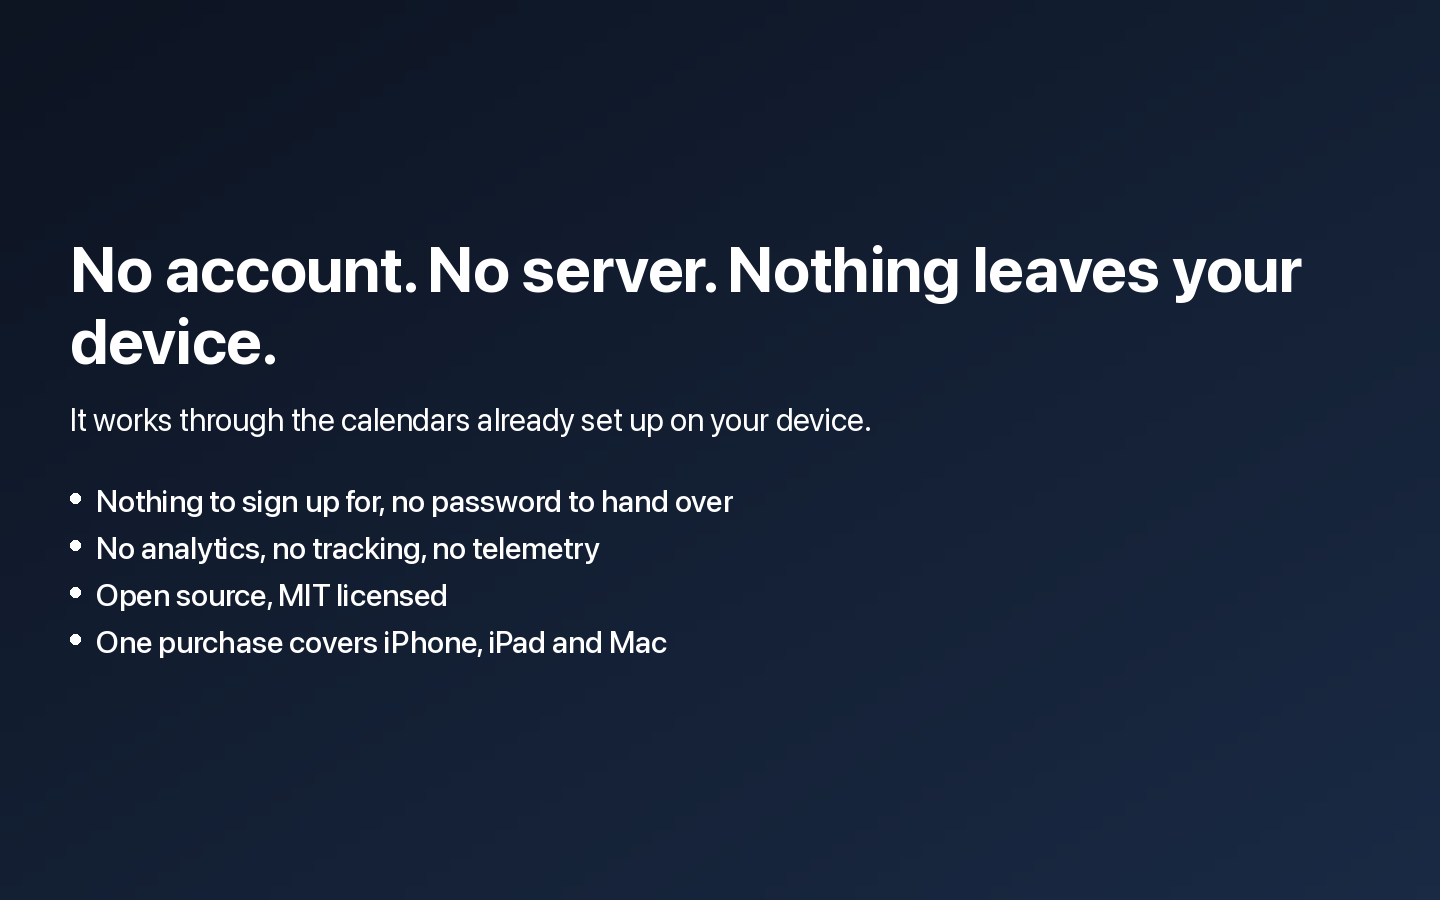
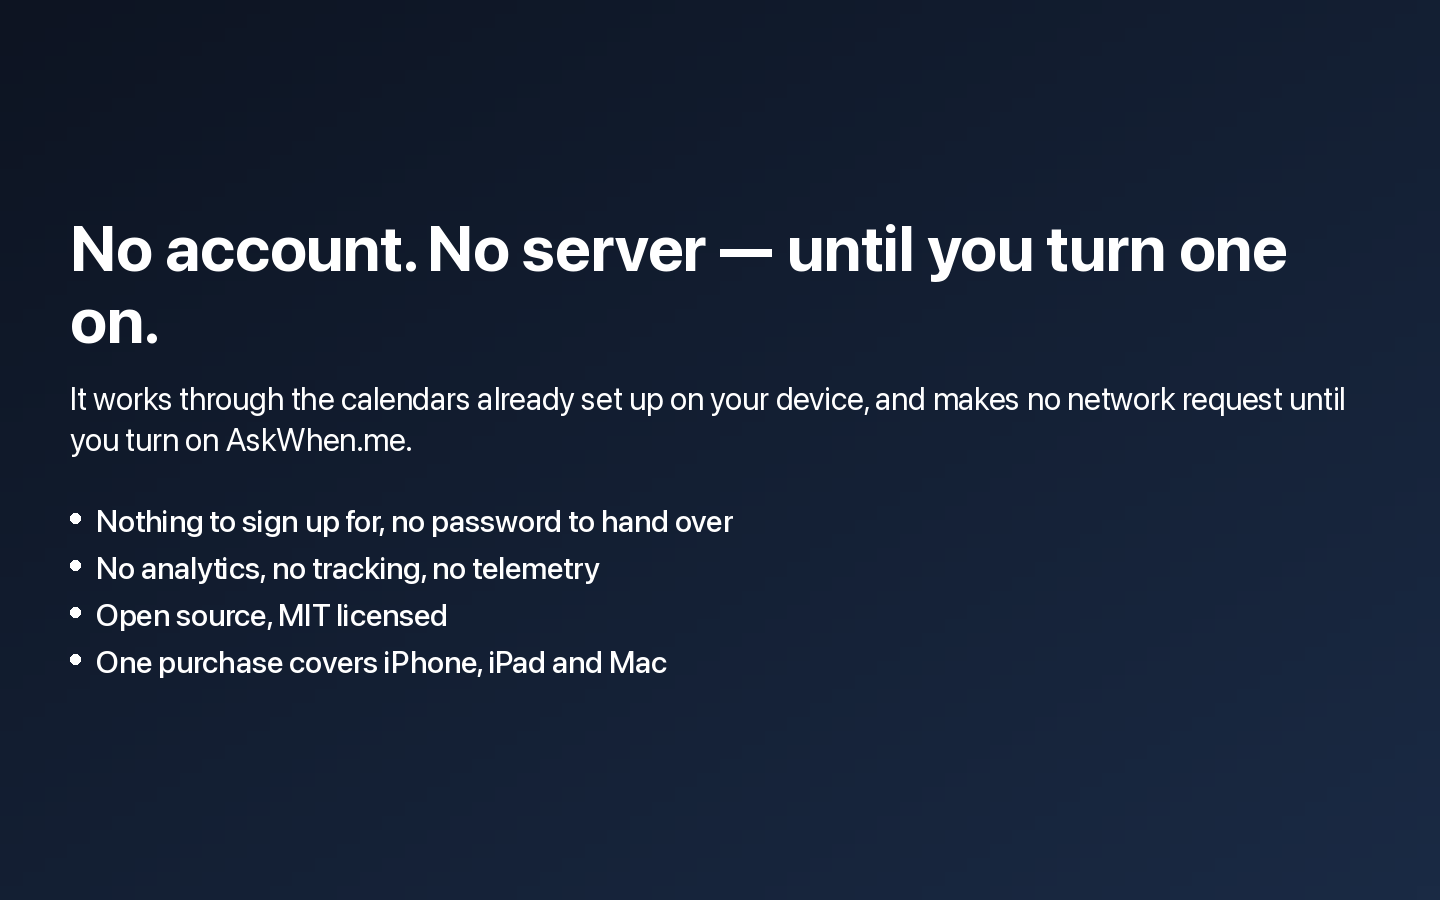
Screenshots and review notes for 2.0, from the synthetic owner
Hurdle H, the agent's half. Three iPhone captures from the seed: the share
sheet with the Send times line, the preview with the inferred week, and the
list with a request waiting. Frames 6, 8 and 10 of the store composites are
2.0's — Send times, AskWhen.me as the preview, and the privacy frame with
its qualifier — with iPad and Mac saying the two new ones in words, since no
honest capture of a share sheet or a menu exists there; genstore gains a
per-platform swap for that. Notes for App Review are generated per platform
with one placeholder, the sandbox tester, which is Matt's to fill in App
Store Connect. STATUS's 'Where we are' stops saying the UI has not been run.

Changed region(s): [[0.0312, 0.2489, 0.9062, 0.4044], [0.0312, 0.5289, 0.5, 0.7467], [0.0312, 0.4356, 0.9375, 0.4978]]

diff --git a/appstore/tools/genstore.py b/appstore/tools/genstore.py
@@ -172,15 +172,28 @@ FRAMES = [
          shot=dict(iphone="ios-detail-light.png", ipad="ipad-detail.png", mac="mac-selection-light.png"),
          crop=dict(iphone=(0, 1395, 1206, 1905), ipad=(0, 560, 2064, 1235)),
          mac_crop=(0, 0, 940, 880)),
-    # 6
-    dict(kind="list", grad=G_BLUE,
-         head="Filter on what the events already say.",
-         sub="Works on calendars you don't control — a subscribed work feed, a team calendar.",
-         items=["Declined, unanswered or canceled",
-                "All-day events, and anything marked free",
-                "Shorter than 15 minutes, or longer than 8 hours",
-                "Titles containing “Lunch” or “Focus time”",
-                "Only 8am–6pm, Monday to Friday"]),
+    # 6 — 2.0. Send times: the daily-use one. The phone shows the share
+    # sheet with the line; iPad and Mac say it in words (the Mac's is a menu
+    # item, and no capture of a menu is made).
+    dict(kind="shot", grad=G_BLUE,
+         head="When are you free? Answer from the app.",
+         sub="One tap: your next three free times as a line of text, worked out on your device, ready to paste.",
+         shot=dict(iphone="ios-sendtimes-light.png"),
+         crop=dict(iphone=(0, 0, 1206, 1900)),
+         ipad_swap=dict(kind="list", grad=G_BLUE,
+                        head="When are you free? Answer from the app.",
+                        sub="Send times: your next three free times as a line of text.",
+                        items=["“Tue 2–2:30pm, Wed 10–10:30am or Thu 3–3:30pm MDT”",
+                               "Worked out on your device from the calendars you chose",
+                               "Ready to paste into Messages, Mail or Slack",
+                               "Also a Shortcuts action and a Siri phrase"]),
+         mac_swap=dict(kind="list", grad=G_BLUE,
+                       head="When are you free? Answer from the menu bar.",
+                       sub="Copy Times to Send: your next three free times as a line of text.",
+                       items=["“Tue 2–2:30pm, Wed 10–10:30am or Thu 3–3:30pm MDT”",
+                              "Worked out on your Mac from the calendars you chose",
+                              "On the clipboard, ready to paste anywhere",
+                              "Also a Shortcuts action and a Siri phrase"])),
     # 7
     dict(mac_swap=dict(kind="icons", grad=G_DEEP,
                        head="Five faces, one glance.",
@@ -194,14 +207,29 @@ FRAMES = [
                 "#private — copy it as a busy block",
                 "#public — copy it in full",
                 "Point a whole mirror at a tag to copy only what you've marked"]),
-    # 8
-    dict(kind="list", grad=G_TEAL,
-         head="Label it. Link it.",
-         sub="Two things a copy can carry across.",
-         items=["Put “[Work]” in front of every copied title",
-                "It applies to hidden titles too — “[Work] Busy”",
-                "Carry the meeting link into the copy's notes",
-                "So a mirrored meeting is one you can actually join"]),
+    # 8 — 2.0. AskWhen.me, as the preview the owner sees before the offer.
+    # Every word of the frame is glossary.md: a request page, never booking.
+    dict(kind="shot", grad=G_TEAL,
+         head="A request page whose server never sees your calendar.",
+         sub="AskWhen.me — a separate subscription you can turn on. Your device chooses the times; nothing lands until you accept.",
+         shot=dict(iphone="ios-askwhen-light.png"),
+         crop=dict(iphone=(0, 0, 1206, 1900)),
+         ipad_swap=dict(kind="list", grad=G_TEAL,
+                        head="A request page whose server never sees your calendar.",
+                        sub="AskWhen.me — a separate subscription you can turn on from inside the app.",
+                        items=["Your device works out which times to offer and sends only those",
+                               "Someone picks one; the request comes to your device",
+                               "Nothing lands in your calendar until you accept",
+                               "Off by default — no network request until you turn it on",
+                               "Free for 90 days, then $19.99 a year"]),
+         mac_swap=dict(kind="list", grad=G_TEAL,
+                       head="A request page whose server never sees your calendar.",
+                       sub="AskWhen.me — a separate subscription you can turn on from inside the app.",
+                       items=["Your Mac works out which times to offer and sends only those",
+                              "Someone picks one; the request comes to your Mac",
+                              "Nothing lands in your calendar until you accept",
+                              "Off by default — no network request until you turn it on",
+                              "Free for 90 days, then $19.99 a year"])),
     # 9
     dict(kind="shot", grad=G_BLUE,
          head="Silent when it works. Loud when it stops.",
@@ -210,8 +238,8 @@ FRAMES = [
          crop=dict(ipad=(0, 0, 2064, 1465))),
     # 10
     dict(kind="list", grad=G_DARK,
-         head="No account. No server. Nothing leaves your device.",
-         sub="It works through the calendars already set up on your device.",
+         head="No account. No server — until you turn one on.",
+         sub="It works through the calendars already set up on your device, and makes no network request until you turn on AskWhen.me.",
          items=["Nothing to sign up for, no password to hand over",
                 "No analytics, no tracking, no telemetry",
                 "Open source, MIT licensed",
@@ -227,8 +255,10 @@ METRICS = {
 
 
 def build(platform, idx, spec):
-    if platform == "mac" and spec.get("mac_swap"):
-        spec = spec["mac_swap"]
+    # A frame can say the same thing differently per platform — a shot on the
+    # phone, words on the iPad or the Mac where no honest capture exists.
+    if spec.get(platform + "_swap"):
+        spec = spec[platform + "_swap"]
     size = SIZES[platform]
     m = METRICS[platform]
     base = gradient(size, *spec["grad"]).convert("RGBA")

diff --git a/appstore/tools/genmeta.py b/appstore/tools/genmeta.py
@@ -25,7 +25,8 @@ import os, sys
 
 OUT = os.path.join(os.path.dirname(os.path.abspath(__file__)), os.pardir, "metadata")
 LIMITS = {"name": 30, "subtitle": 30, "promotional_text": 170,
-          "description": 4000, "whats_new": 4000, "keywords": 100}
+          "description": 4000, "whats_new": 4000, "keywords": 100,
+          "review_notes": 4000}
 
 # The listing name and subtitle. Apple indexes NAME + SUBTITLE + KEYWORDS for
 # search and treats them as one pool, so a word spent in one is wasted in the
@@ -204,6 +205,58 @@ Also: the settings read the way Apple's do, and the key to your page follows
 your iCloud Keychain to a new device.
 """
 
+# Notes for App Review. One text for both platforms; the reviewer reads it
+# once. The sandbox tester is the one line only Matt can fill in.
+REVIEW_NOTES = """Calendar Mirror 2.0 is two things, and the notes are in that order.
+
+1. THE APP (no account, no sign-in). It copies one calendar into another on
+the device with EventKit. Grant Calendar access when asked, tap + to add a
+pair, pick a source and a destination, and sync. Nothing here uses the
+network. New in 2.0: "Send times" — one tap gives the next three free times
+as a line of text via the share sheet, worked out on the device. Also a
+Shortcuts action ("Send Times") and a Siri phrase.
+
+2. ASKWHEN.ME (auto-renewable subscription, off by default). A request page
+at askwhen.me/<page> where other people can ask the owner for a time. It is
+a separate product turned on from inside the app; until the owner turns it
+on, the app makes no network request of any kind — the first request of the
+app's life is StoreKit loading the price, on the screen that shows it.
+
+How to reach it: the "Request page" row → Continue on the sheet → the app
+infers calendars and shows a preview of the owner's own week → "See what it
+costs" → the offer. Products: me.askwhen.page.annual ($19.99/yr, 3-month
+free introductory offer), me.askwhen.subdomain.annual ($34.99/yr) and
+me.askwhen.domain.annual ($69.99/yr); the offer screen sells the first, the
+other two are upgrades on the address screen. "Restore Purchases" is on the
+offer screen.
+
+SANDBOX TESTER: [PLACEHOLDER — Matt: the sandbox Apple Account and password
+from App Store Connect › Users and Access › Sandbox]
+
+What happens after a purchase: the app sends Apple's signed transaction to
+our server, which verifies it offline against Apple's root and creates the
+page. The screen then shows the page's address (askwhen.me/xxxxxx). To see
+the whole loop: open that address in Safari, pick a time, enter a name and
+an email you can read, and confirm from the email that arrives (from
+no-reply@askwhen.me). The request then appears in the app under "Waiting for
+you" and as a notification with Accept and Decline. Accept writes the event
+into the owner's calendar and emails the requester a calendar file.
+
+Personal links: "Send times" from an owner with a live page appends a
+one-use link; a request through it needs no email confirmation and is
+accepted automatically if the time is still clear.
+
+What the server holds: the offered times (not the calendar), the display
+name, an anonymous Apple transaction identifier (hashed), and requests until
+they are answered and delivered. Full detail, in the product's voice:
+https://calendarmirror.com/privacy.html. Terms for the subscription:
+https://calendarmirror.com/terms.html. Support: support@askwhen.me.
+
+The Mac build has a menu-bar item; the window opens from it ("Manage
+Mirrors…"). Realtime syncing (on calendar change) is macOS only and is
+labelled as such; iOS syncs on open, pull to refresh, and background refresh.
+"""
+
 NEW_IOS = NEW_COMMON
 
 NEW_MAC = NEW_COMMON + """
@@ -275,6 +328,7 @@ for plat, fields in FIELDS.items():
         fail = True
     d = os.path.join(OUT, plat)
     os.makedirs(d, exist_ok=True)
+    fields = dict(fields, review_notes=REVIEW_NOTES.strip() + "\n")
     for name, val in fields.items():
         n = len(val)
         lim = LIMITS[name]
@@ -282,7 +336,10 @@ for plat, fields in FIELDS.items():
         if n > lim:
             fail = True
         low = val.lower()
-        hits = [b for b in BANNED[plat] if b in low]
+        # The review notes are for the reviewer, not the store, and say
+        # plainly which platform has what; the platform ban is for copy a
+        # buyer reads.
+        hits = [] if name == "review_notes" else [b for b in BANNED[plat] if b in low]
         if hits:
             fail = True
             print("  !! %s/%s mentions %s — not true of this platform's App Store build" % (plat, name, hits))
@@ -293,7 +350,7 @@ for plat, fields in FIELDS.items():
             print("  !! %s/%s says booking — it is a request page (glossary.md)" % (plat, name))
         # The 1.x claim, unqualified. "No network request ... until you turn
         # on AskWhen.me" is the true form and the only one allowed.
-        if "requests of its own" in low or ("no network request" in low and "until you turn on" not in low):
+        if "requests of its own" in low or ("no network request" in low and "until" not in low):
             fail = True
             print("  !! %s/%s claims no network requests without the AskWhen.me qualifier" % (plat, name))
         open(os.path.join(d, name + ".txt"), "w").write(val)

diff --git a/TASKS.md b/TASKS.md
@@ -40,7 +40,7 @@ left behind is below, under *Next*.
 | # | What | Whose |
 |---|---|---|
 | 1 | ~~Run the request-page UI in a simulator~~ **done 15 Sept, evening**, on the Mac: every screen from the dormant row to the live page, the StoreKit sheet (cancel and buy), the create-failed screen against the live service, the conflict sheet from a real re-check, and Accept / Decline / Accept-anyway from the in-app row. It found and fixed: overlapping toggles on the calendars screen, the day sentence breaking at phone width, the zone picker as a 400-row menu, an offer screen that rendered nothing when products came back empty (and a first-request flake behind it), a decline that was reported done when the service refused it, the notification delegate wired too late for a lock-screen Accept, and unsigned simulator builds having no keychain. What it could not reach, and what it thinks you should look at, is in `decisions.md`, *From the first run of the UI on a Mac*. Still unexercised: the lapse states, Accept from the notification itself. | done |
-| 2 | **Screenshots and review notes for 2.0**, from the same pass — `apple/tools/review-fixture.json` holds a synthetic owner to drive it, and the live config is never used for this. | mine to produce, **Matt** to approve |
+| 2 | **Screenshots and review notes for 2.0** — produced 16 Sept: three new iPhone captures from the seed (Send times, the preview, a request waiting), frames 6, 8 and 10 of the composites rewritten for 2.0, and `review_notes.txt` generated per platform with one placeholder, the sandbox tester. `python3 appstore/tools/genstore.py && python3 appstore/tools/genmeta.py` regenerates all of it. | produced, **Matt** to approve and paste |
 | 3 | **Sandbox proof of the lapse path** — a real purchase from a build, then `EXPIRED` → grace → delete against `/hooks/appstore-sandbox`. Waits on 1. | mine, once 1 happens |
 | 4 | **Privacy policy, terms, listing and site** — drafted in the F PR (16 Sept), waiting on Matt's read plus three TODOs: log retention, the support address, the operator's name on the terms. | **Matt** to review |
 | 5 | **Rotate the five leaked credentials.** Said at prod; this is prod. | **Matt** |

diff --git a/appstore/README.md b/appstore/README.md
@@ -1,6 +1,6 @@
 # App Store assets — Calendar Mirror 1.4.0
 
-Everything App Store Connect needs for the 1.4.0 submission: ten screenshots per
+Everything App Store Connect needs for the submission (built for 1.4.0, revised for 2.0): ten screenshots per
 device class, and the four text fields for each platform.
 
 ```
@@ -109,6 +109,19 @@ config from an earlier session.
 
 If you re-shoot any of these, read every pixel of text back before committing —
 menu bars, window titles, tooltips, and the clock.
+
+**The 2.0 iPhone captures** (`ios-sendtimes-light.png`, `ios-askwhen-light.png`,
+`ios-request-light.png`, 16 Sept 2026) come from the same synthetic owner the
+review sheets use: `apple/tools/seed-config.py` writes the config and the app's
+`-AskWhenSeed` argument creates the "AskWhen Screenshots" calendar and, with
+`-AskWhenRequest`, a request from an invented requester. Nothing in them can be
+real by construction. iPad and Mac say the two new frames in words
+(`ipad_swap` / `mac_swap` in `genstore.py`), because no honest capture of a
+share sheet or a menu exists for those.
+
+**Notes for App Review** are generated too: `metadata/<platform>/review_notes.txt`
+from `REVIEW_NOTES` in `genmeta.py`, with one placeholder — the sandbox tester —
+that only Matt fills in, in App Store Connect, never in the repository.
 
 **The Mac captures come from `apple/tools/shoot-mac.sh`** (16 Sept 2026 on).
 It builds the App Store app and launches it under `-CalMirrorFixture`, a

diff --git a/STATUS.md b/STATUS.md
@@ -1,3 +1,10 @@
+**Run, end to end.** First in a simulator on 15 September (seven bugs
+fixed), then on 16 September against a local service with nothing mocked:
+publish, mint a personal link, a stranger asks through it with no email
+step, the next poll writes the event and resolves it. What still has not
+been exercised: the lapse states (they need an expired subscription from
+Xcode's transaction manager), and the StoreKit sandbox proof (G).
+
 # Where this is, and what is left
 
 **Written 11 September 2026; updated 16 September, evening — the three decisions are made (`decisions.md`, *All three proposals from the outside review are in*, and *AskWhen.me launches paid*).** Read this first; then [`TASKS.md`](TASKS.md) for
@@ -50,8 +57,9 @@ the accept-time re-check against the real calendar, the API client, the
 coordinator, Keychain token storage, and `SubscriptionStore` over StoreKit 2.
 
 **The UI landed 15 September** ([#99](https://github.com/mattbaylor/cal-mirror/pull/99)),
-in `apple/Shared/RequestPage/` — fifteen screens from the dormant row to a
-page that has lapsed and been deleted. Both app targets call it.
+in `apple/Shared/RequestPage/`, and was reworked on 16 September (#105–#110):
+the native pass, zero-decision setup with the preview first, Send times,
+personal links, and the key in iCloud Keychain. Both app targets call it.
 
 | | |
 |---|---|
